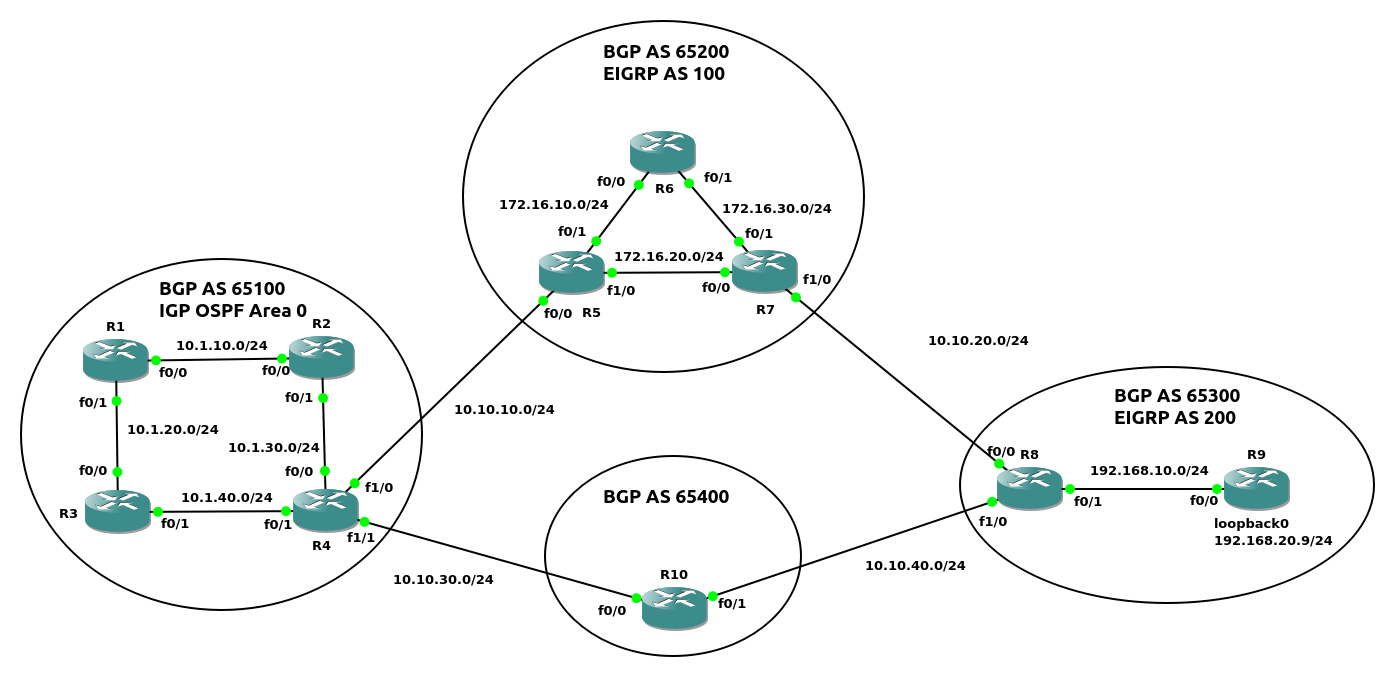
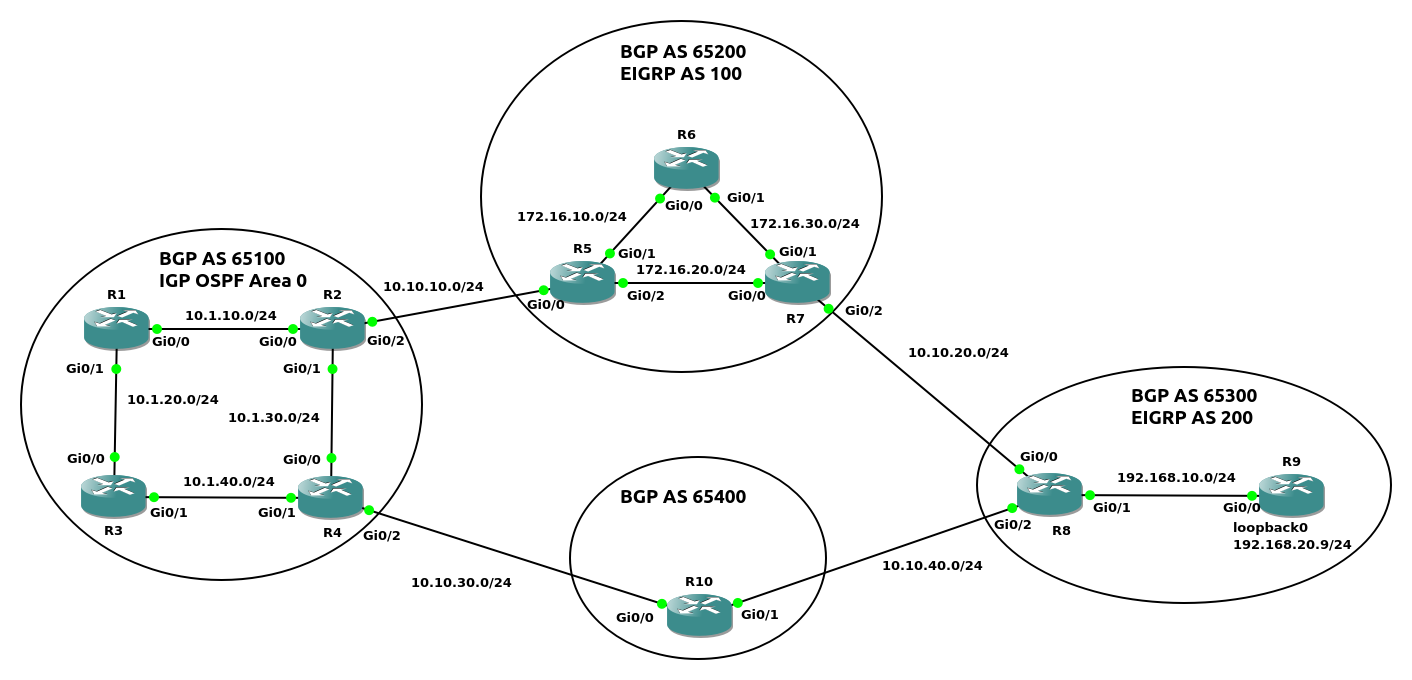
2024-02-03

diff --git a/network/10.bgp.md b/network/10.bgp.md
@@ -1946,12 +1946,21 @@ prefix length越大, 优先级越高<br>
 2.BGP path attribute<br>
 attribute按如下顺序比较:<br>
 1)weight<br>
-本地路由器有效, 不在iBGP/eBGP间传播<br>
+Cisco specific参数, 本地路由器有效, 不在iBGP/eBGP间传播<br>
 weight值越高, 优先级越高<br>
 
 2)local preference<br>
 在iBGP间传播, 不在eBGP间传播<br>
 local preference值越高, 优先级越高. 默认值为100<br>
+
+3)是否为本地生成<br>
+NLRI优先级如下:<br>
+&emsp;&emsp;[1]当前路由器生成, network或redistribute指令获得<br>
+&emsp;&emsp;[2]当前路由器汇总, aggregate-address指令获得<br>
+&emsp;&emsp;[3]从BGP peer接收<br>
+
+4)Accumulated Interior Gateway Protocol(AIGP)<br>
+
 
 
 如图15<br>
@@ -2002,16 +2011,23 @@ R9(config-router)# network 192.168.0.0 0.0.255.255
 
 
 配置BGP
+R2(config)# router bgp 65100
+R2(config-router)# bgp router-id 2.2.2.2
+R2(config-router)# neighbor 10.10.10.5 remote-as 65200
+R2(config-router)# neighbor 10.1.30.4 remote-as 65100
+R2(config-router)# redistribute ospf 1
+R2(config-router)# redistribute connected
+
 R4(config)# router bgp 65100
 R4(config-router)# bgp router-id 4.4.4.4
-R4(config-router)# neighbor 10.10.10.5 remote-as 65200
 R4(config-router)# neighbor 10.10.30.10 remote-as 65400
+R4(config-router)# neighbor 10.1.30.2 remote-as 65100
 R4(config-router)# redistribute ospf 1
 R4(config-router)# redistribute connected
 
 R5(config)# router bgp 65200
 R5(config-router)# bgp router-id 5.5.5.5
-R5(config-router)# neighbor 10.10.10.4 remote-as 65100
+R5(config-router)# neighbor 10.10.10.2 remote-as 65100
 R5(config-router)# neighbor 172.16.20.7 remote-as 65200 
 R5(config-router)# redistribute eigrp 100
 R5(config-router)# redistribute connected
@@ -2041,102 +2057,154 @@ R10(config-router)# redistribute connected
 1)weight
 未修改weight前, R4到192.168.10.0的best path
 R4# show bgp ipv4 unicast 192.168.10.0   
-BGP routing table entry for 192.168.10.0/24, version 13
-Paths: (2 available, best #2, table default)
-  Advertised to update-groups:
-     1         
-  Refresh Epoch 1
-  65400 65300
-    10.10.30.10 from 10.10.30.10 (10.10.10.10)
-      Origin incomplete, localpref 100, valid, external
-      rx pathid: 0, tx pathid: 0
-  Refresh Epoch 1
-  65200 65300
-    10.10.10.5 from 10.10.10.5 (5.5.5.5)
-      Origin incomplete, localpref 100, valid, external, best
-      rx pathid: 0, tx pathid: 0x0
-
-
-
-在R4配置route map, 使AS 65400传播的192.168.10.0/24的weight为200
-R4(config)# ip prefix-list PRE192_168_10 permit 192.168.10.0/24
-R4(config)# route-map AS65400 permit 10
-R4(config-route-map)# match ip address prefix PRE192_168_10
-R4(config-route-map)# set weight 100
-R4(config)# route-map AS65400 permit 20
-R4(config)# router bgp 65100
-R4(config-router)# neighbor 10.10.30.10 route-map AS65400 in
-R4# clear bgp ipv4 unicast 10.10.30.10 soft in
-
-修改weight后, R4到192.168.10.0的best path
-R4# show bgp ipv4 unicast 192.168.10.0
-BGP routing table entry for 192.168.10.0/24, version 15
+BGP routing table entry for 192.168.10.0/24, version 19
 Paths: (2 available, best #1, table default)
   Advertised to update-groups:
      1         
-  Refresh Epoch 2
+  Refresh Epoch 1
   65400 65300
     10.10.30.10 from 10.10.30.10 (10.10.10.10)
-      Origin incomplete, localpref 100, weight 200, valid, external, best
+      Origin incomplete, localpref 100, valid, external, best
       rx pathid: 0, tx pathid: 0x0
-  Refresh Epoch 2
+  Refresh Epoch 1
   65200 65300
-    10.10.10.5 from 10.10.10.5 (5.5.5.5)
+    10.10.10.5 from 10.1.30.2 (2.2.2.2)
+      Origin incomplete, metric 0, localpref 100, valid, internal
+      rx pathid: 0, tx pathid: 0
+
+
+
+在R4配置route map, 使iBGP R2传播的192.168.10.0/24的weight为200
+R4(config)# ip prefix-list PRE192_168_10 permit 192.168.10.0/24
+R4(config)# route-map AS65100 permit 10
+R4(config-route-map)# match ip address prefix-list PRE192_168_10
+R4(config-route-map)# set weight 200
+R4(config-route-map)# route-map AS65100 permit 20
+R4(config-route-map)# router bgp 65100
+R4(config-router)# neighbor 10.1.30.2 route-map AS65100 in
+R4(config-router)# end
+R4# clear bgp ipv4 unicast 10.1.30.2 soft in
+
+修改weight后, R4到192.168.10.0的best path
+R4# show bgp ipv4 unicast 192.168.10.0
+BGP routing table entry for 192.168.10.0/24, version 21
+Paths: (2 available, best #2, table default)
+  Advertised to update-groups:
+     2         
+  Refresh Epoch 1
+  65400 65300
+    10.10.30.10 from 10.10.30.10 (10.10.10.10)
       Origin incomplete, localpref 100, valid, external
       rx pathid: 0, tx pathid: 0
+  Refresh Epoch 2
+  65200 65300
+    10.10.10.5 from 10.1.30.2 (2.2.2.2)
+      Origin incomplete, metric 0, localpref 100, weight 200, valid, internal, best
+      rx pathid: 0, tx pathid: 0x0
 
 
 
 2)local preference
 未修改local preference前, R4到192.168.10.0的best path
-R4# show bgp ipv4 unicast 192.168.10.0/24
-BGP routing table entry for 192.168.10.0/24, version 18
-Paths: (2 available, best #2, table default)
+R4# show bgp ipv4 unicast 192.168.10.0   
+BGP routing table entry for 192.168.10.0/24, version 19
+Paths: (2 available, best #1, table default)
   Advertised to update-groups:
      1         
   Refresh Epoch 1
   65400 65300
     10.10.30.10 from 10.10.30.10 (10.10.10.10)
-      Origin incomplete, localpref 100, valid, external
-      rx pathid: 0, tx pathid: 0
-  Refresh Epoch 4
-  65200 65300
-    10.10.10.5 from 10.10.10.5 (5.5.5.5)
       Origin incomplete, localpref 100, valid, external, best
       rx pathid: 0, tx pathid: 0x0
+  Refresh Epoch 1
+  65200 65300
+    10.10.10.5 from 10.1.30.2 (2.2.2.2)
+      Origin incomplete, metric 0, localpref 100, valid, internal
+      rx pathid: 0, tx pathid: 0
 
 
 
-在R4配置route map, 使AS 65400传播的192.168.10.0/24的local preference为200
+在R4配置route map, 使iBGP R2传播的192.168.10.0/24的local preference为200
 R4(config)# ip prefix-list PRE192_168_10 permit 192.168.10.0/24
-R4(config)# route-map AS65400 permit 10
+R4(config)# route-map AS65100 permit 10
 R4(config-route-map)# match ip address prefix PRE192_168_10
 R4(config-route-map)# set local-preference 200
-R4(config)# route-map AS65400 permit 20
-R4(config)# router bgp 65100
-R4(config-router)# neighbor 10.10.30.10 route-map AS65400 in
+R4(config-route-map)# route-map AS65100 permit 20
+R4(config-route-map)# router bgp 65100
+R4(config-router)# neighbor 10.1.30.2 route-map AS65100 in
+R4(config-router)# end
 R4# clear bgp ipv4 unicast 10.10.30.10 soft in
 
 修改local preference后, R4到192.168.10.0的best path
-R4# show bgp ipv4 unicast 192.168.10.0/24
-BGP routing table entry for 192.168.10.0/24, version 20
-Paths: (2 available, best #1, table default)
+R4# show bgp ipv4 unicast 192.168.10.0
+BGP routing table entry for 192.168.10.0/24, version 23
+Paths: (2 available, best #2, table default)
   Advertised to update-groups:
-     1         
+     2         
   Refresh Epoch 2
   65400 65300
     10.10.30.10 from 10.10.30.10 (10.10.10.10)
-      Origin incomplete, localpref 200, valid, external, best
-      rx pathid: 0, tx pathid: 0x0
-  Refresh Epoch 4
-  65200 65300
-    10.10.10.5 from 10.10.10.5 (5.5.5.5)
       Origin incomplete, localpref 100, valid, external
       rx pathid: 0, tx pathid: 0
+  Refresh Epoch 6
+  65200 65300
+    10.10.10.5 from 10.1.30.2 (2.2.2.2)
+      Origin incomplete, metric 0, localpref 200, valid, internal, best
+      rx pathid: 0, tx pathid: 0x0
 
 
 
-3)
+3)是否由本地生成
+查看R4关于10.10.30.0/24的BGP database
+R4# show bgp ipv4 unicast 10.10.30.0/24
+BGP routing table entry for 10.10.30.0/24, version 10
+Paths: (2 available, best #2, table default)
+  Advertised to update-groups:
+     1          2         
+  Refresh Epoch 2
+  65400
+    10.10.30.10 from 10.10.30.10 (10.10.10.10)
+      Origin incomplete, metric 0, localpref 100, valid, external
+      rx pathid: 0, tx pathid: 0
+  Refresh Epoch 1
+  Local
+    0.0.0.0 from 0.0.0.0 (4.4.4.4)
+      Origin incomplete, metric 0, localpref 100, weight 32768, valid, sourced, best
+      rx pathid: 0, tx pathid: 0x0
+
+
+
+由于local路由的weight为32768, 将10.10.30.10传播的10.10.30.0/24的weight配置为32768再进行比较
+R4(config)# ip prefix-list PRE10_10_30 permit 10.10.30.0/24
+R4(config)# route-map AS65400 permit 10
+R4(config-route-map)# match ip address prefix-list PRE10_10_30
+R4(config-route-map)# set weight 32768
+R4(config-route-map)# route-map AS65400 permit 20
+R4(config-route-map)# router bgp 65100
+R4(config-router)# neighbor 10.10.30.10 route-map AS65400 in
+R4(config-router)# end
+R4# clear bgp ipv4 unicast 10.10.30.10 soft in
+
+再次查看R4关于10.10.30.0/24的BGP database
+R4# show bgp ipv4 unicast 10.10.30.0/24       
+BGP routing table entry for 10.10.30.0/24, version 10
+Paths: (2 available, best #2, table default)
+  Advertised to update-groups:
+     1          2         
+  Refresh Epoch 3
+  65400
+    10.10.30.10 from 10.10.30.10 (10.10.10.10)
+      Origin incomplete, metric 0, localpref 100, weight 32768, valid, external
+      rx pathid: 0, tx pathid: 0
+  Refresh Epoch 1
+  Local
+    0.0.0.0 from 0.0.0.0 (4.4.4.4)
+      Origin incomplete, metric 0, localpref 100, weight 32768, valid, sourced, best
+      rx pathid: 0, tx pathid: 0x0
+
+
+
+4)
 ```
 <br>
 <br>
